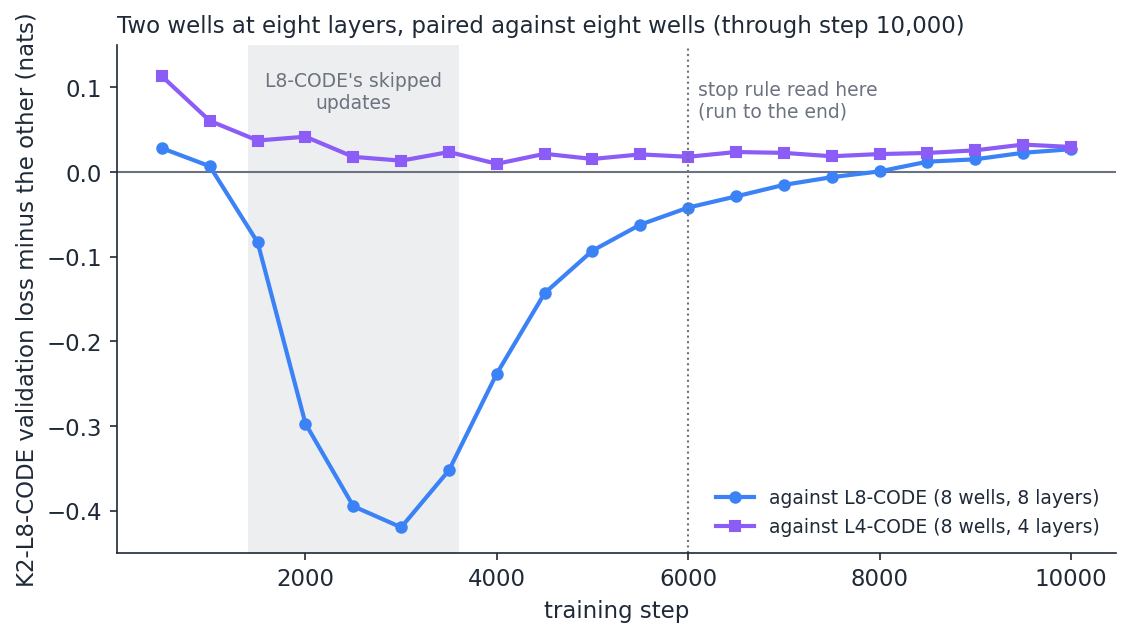
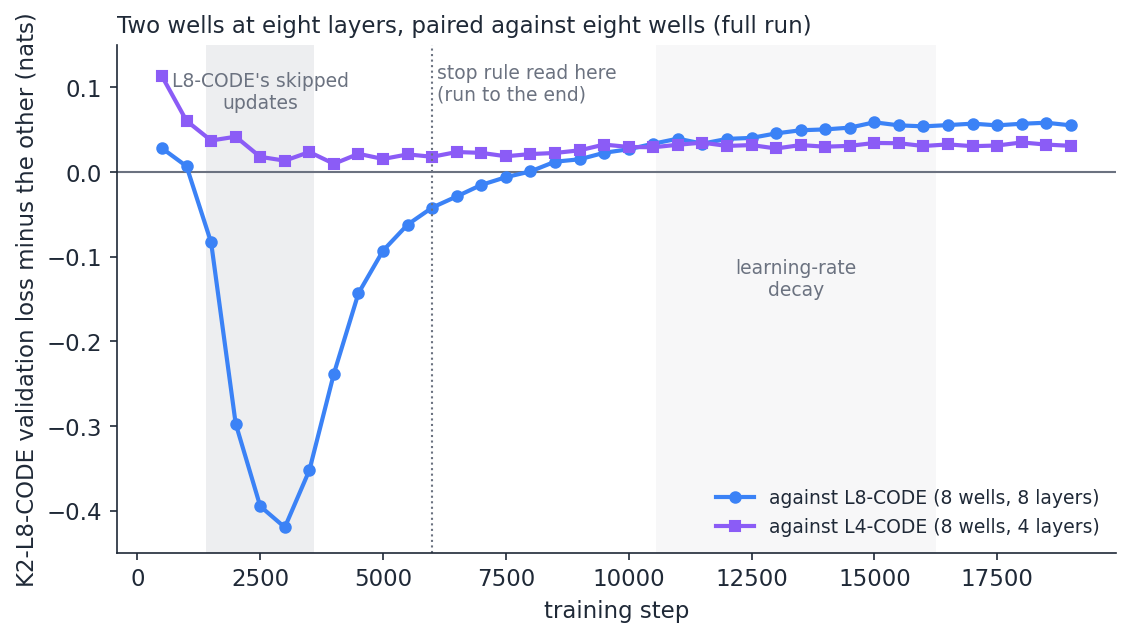
min well count results and bug fix

diff --git a/companion_notes/figures/_make_min_well_count_figs.py b/companion_notes/figures/_make_min_well_count_figs.py
@@ -8,8 +8,7 @@ Data, read from the result files named beside each figure (no checkpoints needed
 - keep-k curves:      .../dead_wells/keep_k_<arm>_L<layer>[_renorm].txt
 - temperature sweeps: .../dead_wells/vtheta_weight_logits_<arm>.txt (sweep=1)
 - well-count fits:    .../well_count/well_count_fit_<arm>[_L<layer>].txt
-- training curves:    the L8-CODE and L4-CODE Cell 6 logs in their run folders; K2-L8-CODE's evals through step
-                      10,000 are copied below from its Cell 6 log (2026-11-03), not yet filed in the repo.
+- training curves:    the K2-L8-CODE, L8-CODE and L4-CODE Cell 6 logs in their run folders.
 A figure whose data file is missing is skipped with a note.
 """
 import re
@@ -279,27 +278,25 @@ def fig_fits():
 
 
 # ---------------------------------------------------------------- Figure 7: K2-L8-CODE in training
-K2L8 = {500: 3.9585, 1000: 3.3425, 1500: 2.9096, 2000: 2.5961, 2500: 2.3957, 3000: 2.2695, 3500: 2.1698,
-        4000: 2.1617, 4500: 2.1258, 5000: 2.0889, 5500: 2.0297, 6000: 2.0181, 6500: 2.0323, 7000: 1.9569,
-        7500: 1.9485, 8000: 1.9847, 8500: 1.9637, 9000: 1.9096, 9500: 1.9180, 10000: 1.9330}
-
-
 def fig_k2l8():
+    k2l8 = evals(next(RES.glob("cfc_baoab_code_*dcvt5x2*L8probe*/L8_K2_SO_on_Code_19250steps_output.txt")))
     l8 = evals(next(RES.glob("cfc_baoab_code_*dcvt5x8*L8probe*/L8_SO_on_Code_19250steps_output.txt")))
     l4 = evals(next(RES.glob("cfc_baoab_code_*dcvt5x8*L4probe*/L4_SO_on_Code_19250steps_output.txt")))
-    st = sorted(K2L8)
+    st = sorted(k2l8)
     fig, ax = plt.subplots(figsize=(8.6, 4.4))
     ax.axvspan(1400, 3600, color=GREY, alpha=0.18, lw=0)
     ax.text(2500, 0.07, "L8-CODE's skipped\nupdates", ha="center", va="bottom", fontsize=9, color=MUTED)
+    ax.axvspan(10562, 16250, color=GREY, alpha=0.08, lw=0)
+    ax.text(13400, -0.15, "learning-rate\ndecay", ha="center", va="bottom", fontsize=9, color=MUTED)
     ax.axhline(0, color=MUTED, lw=1)
-    ax.plot(st, [K2L8[s] - l8[s] for s in st], marker="o", color=BLUE, lw=2, ms=5, label="against L8-CODE (8 wells, 8 layers)")
-    ax.plot(st, [K2L8[s] - l4[s] for s in st], marker="s", color=PURPLE, lw=2, ms=5, label="against L4-CODE (8 wells, 4 layers)")
+    ax.plot(st, [k2l8[s] - l8[s] for s in st], marker="o", color=BLUE, lw=2, ms=5, label="against L8-CODE (8 wells, 8 layers)")
+    ax.plot(st, [k2l8[s] - l4[s] for s in st], marker="s", color=PURPLE, lw=2, ms=5, label="against L4-CODE (8 wells, 4 layers)")
     ax.axvline(6000, color=MUTED, ls=":", lw=1)
-    ax.text(6100, 0.06, "stop rule read here\n(run to the end)", fontsize=9, color=MUTED, va="bottom")
+    ax.text(6100, 0.08, "stop rule read here\n(run to the end)", fontsize=9, color=MUTED, va="bottom")
     ax.set_ylim(-0.45, 0.15)
     ax.set_xlabel("training step")
     ax.set_ylabel("K2-L8-CODE validation loss minus the other (nats)")
-    ax.set_title("Two wells at eight layers, paired against eight wells (through step 10,000)", loc="left", fontsize=11)
+    ax.set_title("Two wells at eight layers, paired against eight wells (full run)", loc="left", fontsize=11)
     ax.legend(frameon=False, fontsize=9, loc="lower right")
     save(fig, "k2l8_training.png")
 

diff --git a/companion_notes/Depth_Ladder_and_Matched_Baseline_Protocol.md b/companion_notes/Depth_Ladder_and_Matched_Baseline_Protocol.md
@@ -4941,6 +4941,21 @@ The whole-stack column is FLOW-R's own standard refinement on these batches (Cel
 
   Mean over 9,000–10,000: **+0.021 nats against L8-CODE** and +0.029 against L4-CODE, about 2–3% in perplexity. Against L4-CODE the gap has held at +0.02–0.03 since step 3,500. So far, two wells at L = 8 train about as well as eight wells at L = 4, and slightly worse than eight at L = 8. The decay phase (10,562–16,250) decides the settled reading: L8-CODE moved from +0.003 against L4-CODE at step 10,000 to −0.024 settled.
 
+<a name="p-k2-l8-code-result"></a>**Result, K2-L8-CODE (2026-11-03): two wells at eight layers settle at 5.67, +5.8% against L8-CODE, +3.3% against L4-CODE, −5.5% against SO-CODE.** One session on one A100 80 GB, steps 1–19,250 in 19.0 h (68,328 s; 3.5 s per step with the V_φ-force checkpoint and no layer checkpointing), peak memory 35.0 GB in training and 51.6 GB in evaluation. Microbatch 16 × 2. **No non-finite gradient norm at any logged step** (L8-CODE: 34 of 45 logged steps over 1,400–3,600 on the same batches). Gradient norm median 0.38 after step 2,000, maximum 2.02 (step 650, in warmup); largest rise between logged training losses 0.069 (step 13,050, as in L8-CODE and SO-CODE). No watchdog trigger. SCAF CLEAN at 5,000, 10,000, 15,000 and 19,250; trained leak probe at 10,000 CLEAN (honest 4.98, standard 5.40). Resonance at step 19,000: ωΔt median 1.50, 25.6% past the wall (L8-CODE 31.7% at 15,500). Best checkpoint at step 18,000 (perplexity 5.56). The output is filed in `results/cfc_baoab_code_…dcvt5x2…L8probe…lowrank_lr0p0012_noattn/` (`L8_K2_SO_on_Code_19250steps_output.txt`); Cells 7, 6b-7, 6b-13 and `training_log.jsonl` are not yet delivered.
+
+- **Settled** (mean of the evals at 18,000, 18,500 and 19,000): validation loss 1.7346, perplexity **5.667**. L8-CODE 5.354, L4-CODE 5.485, SO-CODE 5.994, GPT-2-CODE 4.959. In log perplexity, it closes 30% of SO-CODE's gap to GPT-2-CODE (L4-CODE 47%, L8-CODE 60%).
+- **Paired differences** (K2-L8-CODE minus the other, validation loss in nats, same batches), mean and SD over the logged evals in each window:
+
+  | window | against L8-CODE | against L4-CODE | against SO-CODE |
+  |---|---:|---:|---:|
+  | 2,000–4,000 (5 evals) | −0.340, SD 0.074 | +0.021, SD 0.013 | −0.272, SD 0.064 |
+  | 8,000–13,000 (11) | +0.028, SD 0.014 | +0.029, SD 0.004 | −0.070, SD 0.009 |
+  | 16,000–19,000 (7) | **+0.056, SD 0.0015** | +0.032, SD 0.0016 | −0.056, SD 0.003 |
+
+- **Reading.** Against L8-CODE the gap opened during the learning-rate decay (+0.027 at 10,000, +0.045 at 13,000, +0.054 at 16,000) and then held. Against L4-CODE it stayed at +0.02–0.03 from step 3,500 to the end. So, on code at L = 8, the six extra wells are worth 0.056 nats, more than doubling depth from four to eight layers (0.024). Two wells at L = 8 still beat eight wells at L = 2 by 0.056 nats, with 26.4 M fewer parameters (50,164,435 against SO-CODE's 76,572,109). Outside the embeddings, K2-L8-CODE has 11.6 M parameters against the matched GPT-2's 14.2 M, and trails it by 14.3%. The stop-rule reading at 6,000 (d = −0.066) still carried L8-CODE's skip lag, as the setup block warned; the full run shows it was not the K effect.
+- **Cell 6b-4 (B_k spectrum, step-18,000 checkpoint, read 2026-11-03; first run on a joint bank, after the fix below):** participation ratio PR p50 **3.03 of 4** (p05 2.30, p95 3.68); ‖B‖_F p50 1.000, so the Frobenius cap (`PRECISION_LR_MAX = 1.0`) binds; σ_max² p50 0.463; mean σ_i/σ_1 = 1.000, 0.754, 0.599, 0.465. The share of the budget per direction is 47%, 27%, 17% and 10%. The untrained bank at the same size reads 3.96 of 4 (σ_i/σ_1 = 1, 0.96, 0.92, 0.87; random bank input, any scale), so training concentrated the budget but kept all four directions in use: the spectrum decays smoothly (ratio about 0.78 per direction), with no knee at or below 4. The cell's rule calls this saturated (≥ 3.0), at the edge of the band. Under the binding cap, rank 6 would redistribute the same budget rather than add curvature. Continuing the decay, directions 5 and 6 would take about 9% of it and σ_max² would fall to about 0.43; the spectrum cannot say what that is worth in loss. Pooled over all layers, both wells and the batch's tokens. **Fix (uncommitted at the time of reading, applied by hand in the session):** Cells 6b-2 and 6b-4 looped over `context_components` as a list of per-channel tuples. The joint bank returns one `(mu, a, w, B)` tuple, so on joint-bank arms the cells crashed at K = 2 and 8 and were silently wrong at K = 4. Cell 6b-4 also now imports `copy` itself instead of relying on Cell 6d.
+- **Still to run:** Cells 8, 7, 6b-7 and 6b-13 on the step-18,000 checkpoint; download the run folder with snapshots 1,000–3,000; `vtheta_well_probe.py` on all eight layers (does layer 0, which uses about 7 of L8-CODE's 8 wells, use both of its two?); `xi_reach.py`; the copy split; K2-CODE at L = 2 for the depth comparison of what six wells buy. Calls were never registered, so nothing is scored.
+
 <a name="p-sr4a-code"></a>**SR4a-CODE: variable-step training on SO-CODE. Switch built and verified 2026-11-01 (author's go-ahead the same day); calls proposed, not yet confirmed by the author.** The pre-registered SR4a arm (§5.9: N ~ U{2, 3, 4} at T = 8, depth code by time, Cell 6b-7's `hold` policy), moved to the code base after FLOW-R on code (`p-flowr-code`). There, every model's whole stack fails refinement by 1.4–3 nats while the per-layer flow settles. SR4a asks whether training at several step counts removes the whole-stack failure, by making the model work at every N it is trained on.
 
 - **The switch.**
@@ -4967,6 +4982,7 @@ The whole-stack column is FLOW-R's own standard refinement on these batches (Cel
   - **Memory and speed:** SO-CODE's `LAYER_CHECKPOINT = False` can stay. An N = 4 step holds four layer steps' activations, about L4-CODE's 60.5 GB without checkpointing, on 80 GB. Evaluation walks N = 2, and the probe turns checkpointing on. Speed is about the mean of SO-CODE's 1.1 s per step at N = 2 and L4-CODE's 2.0 at N = 4, roughly 1.6 s per step: about 8.5 h for 19,250 steps, plus about 10 probes.
   - **First checks:** step-50 loss and speed; the step lines show `vs=[N2:… N3:… N4:…]`; the first `vs_probe` at step 2,000.
   - **After the run:** Cells 8, 7, 6b-7 (Gate 3 to N = 8), 6b-13; on CPU, FLOW-R (`code` kind, the tag carries `vs234`) and the paired evals against SO-CODE.
+- **Launched 2026-11-03 (evening), from GitHub `7eec218`.** Cell 0 output identical line for line to the local execution with the ten changes; tag `…_sr2_vs234_st16250_L2probe…idt4_lr0p0012_noattn`. Cell 2: no checkpoint (Cell 5b: fresh run). Cell 5: 76,572,110 parameters (SO-CODE's; V_θ 35,427,080), `Auto batch: 16 x accum=2` (the probe walks N = 2: 33.7 GB at 16). Cell 6: 76,502,176 decayed and 69,933 undecayed, as SO-CODE. Step 50: training loss 6.1841 (SO-CODE 6.1591), by N 6.1133 / 6.2298 / 6.2109 at N = 2 / 3 / 4; gradient norm 0.67 (0.75); **peak memory 60.5 GB** (the N = 4 estimate, L4-CODE's 60.5 GB); **1.58 s per step**, about 8.4 h (SO-CODE 1.1 s). Calls VS1–VS5 not yet confirmed at launch.
 - **The L8-CODE resume is unaffected:** the code is OFF-identical, Cell 0's default leaves every existing tag unchanged, and a resumed session that pulls this commit trains the same arithmetic.
 
 **Calls, proposed 2026-11-01 (the author confirms or changes them before launch; Cell 6b-7 batches unless stated; SO-CODE: settled 5.9951, Gate 1 +4.0%, Gate 3 at N = 3 / 4 / 8 0.639 / 1.418 / 2.727 nats (`Cell-6b-7_flow_or_maps_noattn_SR2_on_Code_19250steps_output.txt`), per-layer flow limit 0.369 on FLOW-R's batches):**

diff --git a/companion_notes/Minimum_Well_Count_for_Conservative_Models.md b/companion_notes/Minimum_Well_Count_for_Conservative_Models.md
@@ -163,9 +163,9 @@ The second point is a property of these trained weights, not of the model. Secti
 
 ## 5. Training with fewer wells: K2-L8-CODE
 
-K2-L8-CODE is L8-CODE with two wells instead of eight, trained on the same batches from step 0, so the paired difference of validation losses isolates $K$. It is still running. The table and Figure 4 cover the evals through step 10,000.
+K2-L8-CODE is L8-CODE with two wells instead of eight, trained on the same batches from step 0, so the paired difference of validation losses isolates $K$. It ran to the end (19,250 steps, 19.0 h in one session, 2026-11-02 to 11-03). The table and Figure 4 cover the full run.
 
-![Paired validation loss differences by training step. Against L8-CODE the difference dips to minus 0.42 nats at step 3,000, during L8-CODE's skipped updates, then rises through zero at step 8,000 to plus 0.027 at step 10,000. Against L4-CODE it falls from plus 0.11 at step 500 to between plus 0.01 and plus 0.03 from step 2,500 on.](figures/min_well_count/k2l8_training.png)
+![Paired validation loss differences by training step. Against L8-CODE the difference dips to minus 0.42 nats at step 3,000, during L8-CODE's skipped updates, rises through zero at step 8,000, grows through the learning-rate decay and holds at about plus 0.056 from step 14,500 to the end. Against L4-CODE it falls from plus 0.11 at step 500 to between plus 0.01 and plus 0.03 from step 2,500, and holds at about plus 0.032 to the end.](figures/min_well_count/k2l8_training.png)
 
 Figure 4. K2-L8-CODE's validation loss minus L8-CODE's (8 wells, 8 layers) and L4-CODE's (8 wells, 4 layers), paired by step.
 
@@ -175,20 +175,28 @@ Figure 4. K2-L8-CODE's validation loss minus L8-CODE's (8 wells, 8 layers) and L
 | 8,000 | 1.9847 | 1.9841 | 1.9636 | +0.001 | +0.021 |
 | 9,000 | 1.9096 | 1.8947 | 1.8841 | +0.015 | +0.026 |
 | 10,000 | 1.9330 | 1.9062 | 1.9035 | +0.027 | +0.030 |
+| 13,000 | 1.7950 | 1.7495 | 1.7673 | +0.045 | +0.028 |
+| 16,000 | 1.7555 | 1.7017 | 1.7249 | +0.054 | +0.031 |
+| 18,000 | 1.7164 | 1.6595 | 1.6816 | +0.057 | +0.035 |
+| 18,500 | 1.7365 | 1.6784 | 1.7042 | +0.058 | +0.032 |
+| 19,000 | 1.7509 | 1.6959 | 1.7201 | +0.055 | +0.031 |
+| settled | 1.7346 (5.67) | 1.6779 (5.35) | 1.7020 (5.48) | +0.057 | +0.033 |
+
+"Settled" is the mean of the evals at steps 18,000, 18,500 and 19,000, with the perplexity in brackets.
 
 - L8-CODE skipped most of its updates over steps 1,400–3,600 (non-finite gradients). K2-L8-CODE had none on the same batches, so those skips are tied to the eight-well bank. The early lead of two wells is that lag, not an effect of $K$.
-- Since L8-CODE recovered, two wells trail eight by +0.021 nats on average over steps 9,000–10,000, and the gap has grown by about 0.013 nats per 1,000 steps.
-- Against L4-CODE, the gap has held at +0.02–0.03 nats since step 3,500: two wells at eight layers train about as well as eight wells at four layers.
-- The decay phase (steps 10,562–16,250) decides the settled number. Over it, L8-CODE went from level with L4-CODE to 0.024 nats ahead.
+- After L8-CODE recovered, the gap opened through the learning-rate decay (steps 10,562–16,250): +0.027 nats at step 10,000, +0.045 at 13,000, then flat. Over steps 16,000–19,000 it is **+0.056 nats, SD 0.0015** over 7 evals: two wells settle **5.8% behind eight** in perplexity.
+- Against L4-CODE the gap held at +0.02–0.03 nats from step 3,500 to the end (+0.032, SD 0.0016, over 16,000–19,000). Two wells at eight layers train 3.3% behind eight wells at four layers, and 5.5% ahead of SO-CODE (eight wells, two layers).
+- Measured as SO-CODE's gap to the matched GPT-2 in log perplexity, K2-L8-CODE closes 30% of it, L4-CODE 47% and L8-CODE 60%.
 
-So far, at $L = 8$ on code, $K_{\min}$ is 2 for a tolerance of about 0.03 nats and more than 2 for 0.01.
+At $L = 8$ on code, then, $K_{\min}$ is 2 for a tolerance of about 0.06 nats and more than 2 for anything tighter. The six extra wells are worth about as much as the step from four layers to eight (0.024 nats). Most of the gap opened during the learning-rate decay.
 
 **What the six wells cost.** Each well reads the full 1,920-number bank input through three maps: its centre (to 384 numbers), its diagonal precision (to 384) and its shape of rank 4 (to $4 \times 384$). At rank $r$ a well costs $(2 + r) \times 737664 + 1921$ parameters, which is 4,427,905 at $r = 4$. Embeddings excluded:
 
 | model | wells | layers | parameters, all | non-embedding | settled perplexity |
 | --- | ---: | ---: | ---: | ---: | ---: |
 | matched GPT-2 on code | (attention) | 8 | 33,691,776 | 14,196,480 | 4.96 |
-| K2-L8-CODE | 2 | 8 | 50,164,436 | 11,567,059 | running |
+| K2-L8-CODE | 2 | 8 | 50,164,436 | 11,567,059 | 5.67 |
 | L8-CODE | 8 | 8 | 76,731,865 | 38,134,489 | 5.35 |
 
 The conservative models carry an untied readout (19.3 M parameters that GPT-2 shares with its input embedding). Outside the embeddings, K2-L8-CODE is 18% smaller than the matched GPT-2, and L8-CODE was 2.7 times larger. Six wells were 26.6 M of L8-CODE's parameters, so the minimum well count decides whether the comparison with GPT-2 is at matched size.
@@ -251,6 +259,6 @@ PENDING-SUMMARY
 - Montúfar, G., Pascanu, R., Cho, K. and Bengio, Y. (2014). On the number of linear regions of deep neural networks. *NeurIPS*.
 - Carreira-Perpiñán, M. Á. and Williams, C. K. I. (2003). On the number of modes of a Gaussian mixture. *Scale-Space Methods in Computer Vision*.
 
-**Provenance.** Probes: `notebooks/conservative_arch/scaleup/debug/vtheta_well_probe.py` (effective counts, force shares, removal; `renorm=1` added 2026-11-03), `keep_k_curves.py`, `vtheta_weight_logits.py` (the bound, the scale test and the temperature sweep), `well_count_fit.py` (the estimator). Results in `notebooks/conservative_arch/scaleup/results/dead_wells/` and `.../results/well_count/`. K2-L8-CODE's evals through step 10,000 are from its Cell 6 log (2026-11-03). The parameter counts per well are the bank's formula, checked against L8-CODE's and K2-L8-CODE's built totals.
+**Provenance.** Probes: `notebooks/conservative_arch/scaleup/debug/vtheta_well_probe.py` (effective counts, force shares, removal; `renorm=1` added 2026-11-03), `keep_k_curves.py`, `vtheta_weight_logits.py` (the bound, the scale test and the temperature sweep), `well_count_fit.py` (the estimator). Results in `notebooks/conservative_arch/scaleup/results/dead_wells/` and `.../results/well_count/`. K2-L8-CODE's evals are from its Cell 6 log, filed in its run folder (`results/cfc_baoab_code_…dcvt5x2…L8probe…lr0p0012_noattn/`, 2026-11-03). The parameter counts per well are the bank's formula, checked against L8-CODE's and K2-L8-CODE's built totals.
 
 Last updated: 3 November 2026.

diff --git a/EXPERIMENTS.md b/EXPERIMENTS.md
@@ -1185,6 +1185,7 @@ sits, by kind of token and by distance to an earlier occurrence) is in
 | <a name="so-code-vtun"></a>**SO-CODE-VTUN** | SO-CODE plus **unit-norm context channels at V_θ's bank input** (`VTHETA_INPUT_UNIT_NORM = True`), screen A's switch without the sixth channel; exploratory; layer 1 alive, but it ends +5.8% against SO-CODE, so screen A's parity is the sixth channel making up for the switch ([result](companion_notes/Depth_Ladder_and_Matched_Baseline_Protocol.md#p-so-code-vtun-result)) | 6.34 | [folder](notebooks/conservative_arch/scaleup/results/cfc_baoab_code_xi5long_topk16_dt32da16_mh4_aniso_dcvt5x8_vtjoint_cgqk_norc_vplive_xilive_sr2_st16250_vtun_L2probe_ob_untied_wsd_e5c_plgate_rep0.05_fockreg0.005_g0.1_baoab_cfc_lowrank_idt4_lr0p0012_noattn/) (`…sr2_st16250_vtun…`), [log](notebooks/conservative_arch/scaleup/results/cfc_baoab_code_xi5long_topk16_dt32da16_mh4_aniso_dcvt5x8_vtjoint_cgqk_norc_vplive_xilive_sr2_st16250_vtun_L2probe_ob_untied_wsd_e5c_plgate_rep0.05_fockreg0.005_g0.1_baoab_cfc_lowrank_idt4_lr0p0012_noattn/L2_SO-VTUN_on_Code_19250steps_output.txt) | [card](https://huggingface.co/dimitarpg13/semsimula-ladder-live-code-d384-l2-none-norc-sr2-vtun) | [protocol](companion_notes/Depth_Ladder_and_Matched_Baseline_Protocol.md#p-so-code-vtun-result) |
 | <a name="l4-code"></a>**L4-CODE** | SO-CODE at **L = 4** (Δt = 2, T = 8 as at L = 2); exploratory; −8.5% against SO-CODE, the largest gain on code so far, and a general one: it closes 47% of SO-CODE's gap to GPT-2-CODE on every kind of target; no dead wells ([result](companion_notes/Depth_Ladder_and_Matched_Baseline_Protocol.md#p-l4-code-result)); its per-layer flow converges, 0.31 nats from the trained step, SO-CODE's 0.37 ([FLOW-R](companion_notes/Depth_Ladder_and_Matched_Baseline_Protocol.md#p-flowr-code)) | 5.48 | [folder](notebooks/conservative_arch/scaleup/results/cfc_baoab_code_xi5long_topk16_dt32da16_mh4_aniso_dcvt5x8_vtjoint_cgqk_norc_vplive_xilive_sr2_st16250_L4probe_ob_untied_wsd_e5c_plgate_rep0.05_fockreg0.005_g0.1_baoab_cfc_lowrank_idt2_lr0p0012_noattn/) (`…sr2_st16250_L4probe…idt2…`), [log](notebooks/conservative_arch/scaleup/results/cfc_baoab_code_xi5long_topk16_dt32da16_mh4_aniso_dcvt5x8_vtjoint_cgqk_norc_vplive_xilive_sr2_st16250_L4probe_ob_untied_wsd_e5c_plgate_rep0.05_fockreg0.005_g0.1_baoab_cfc_lowrank_idt2_lr0p0012_noattn/L4_SO_on_Code_19250steps_output.txt) | [card](https://huggingface.co/dimitarpg13/semsimula-ladder-live-code-d384-l4-none-norc-sr2) | [protocol](companion_notes/Depth_Ladder_and_Matched_Baseline_Protocol.md#p-l4-code-result) |
 | <a name="l8-code"></a>**L8-CODE** | SO-CODE at **L = 8** (Δt = 1, T = 8), the matched GPT-2's depth; exploratory; −2.4% against L4-CODE, −10.7% against SO-CODE: the second doubling of depth buys about a quarter of the first; closes 60% of SO-CODE's gap to GPT-2-CODE; resetting the velocity costs +172%; many updates skipped on non-finite gradients over steps 1,400–3,600 ([result](companion_notes/Depth_Ladder_and_Matched_Baseline_Protocol.md#p-l8-code-result)) | 5.35 | [folder](notebooks/conservative_arch/scaleup/results/cfc_baoab_code_xi5long_topk16_dt32da16_mh4_aniso_dcvt5x8_vtjoint_cgqk_norc_vplive_xilive_sr2_st16250_L8probe_ob_untied_wsd_e5c_plgate_rep0.05_fockreg0.005_g0.1_baoab_cfc_lowrank_lr0p0012_noattn/) (`…sr2_st16250_L8probe…lowrank_lr0p0012…`), [log](notebooks/conservative_arch/scaleup/results/cfc_baoab_code_xi5long_topk16_dt32da16_mh4_aniso_dcvt5x8_vtjoint_cgqk_norc_vplive_xilive_sr2_st16250_L8probe_ob_untied_wsd_e5c_plgate_rep0.05_fockreg0.005_g0.1_baoab_cfc_lowrank_lr0p0012_noattn/L8_SO_on_Code_19250steps_output.txt) | not published yet | [protocol](companion_notes/Depth_Ladder_and_Matched_Baseline_Protocol.md#p-l8-code-result) |
+| <a name="k2-l8-code"></a>**K2-L8-CODE** | L8-CODE with **two V_θ wells** instead of eight (paired from step 0); exploratory; +5.8% against L8-CODE, +3.3% against L4-CODE, −5.5% against SO-CODE with 26.4 M fewer parameters; the gap to L8-CODE opened in the learning-rate decay; no skipped updates (L8-CODE's were tied to the eight-well bank); V_φ-force checkpoint, 3.5 s per step ([result](companion_notes/Depth_Ladder_and_Matched_Baseline_Protocol.md#p-k2-l8-code-result)) | 5.67 | [folder](notebooks/conservative_arch/scaleup/results/cfc_baoab_code_xi5long_topk16_dt32da16_mh4_aniso_dcvt5x2_vtjoint_cgqk_norc_vplive_xilive_sr2_st16250_L8probe_ob_untied_wsd_e5c_plgate_rep0.05_fockreg0.005_g0.1_baoab_cfc_lowrank_lr0p0012_noattn/) (`…dcvt5x2…L8probe…lowrank_lr0p0012…`), [log](notebooks/conservative_arch/scaleup/results/cfc_baoab_code_xi5long_topk16_dt32da16_mh4_aniso_dcvt5x2_vtjoint_cgqk_norc_vplive_xilive_sr2_st16250_L8probe_ob_untied_wsd_e5c_plgate_rep0.05_fockreg0.005_g0.1_baoab_cfc_lowrank_lr0p0012_noattn/L8_K2_SO_on_Code_19250steps_output.txt) | not published yet | [protocol](companion_notes/Depth_Ladder_and_Matched_Baseline_Protocol.md#p-k2-l8-code-result) |
 
 ---
 
